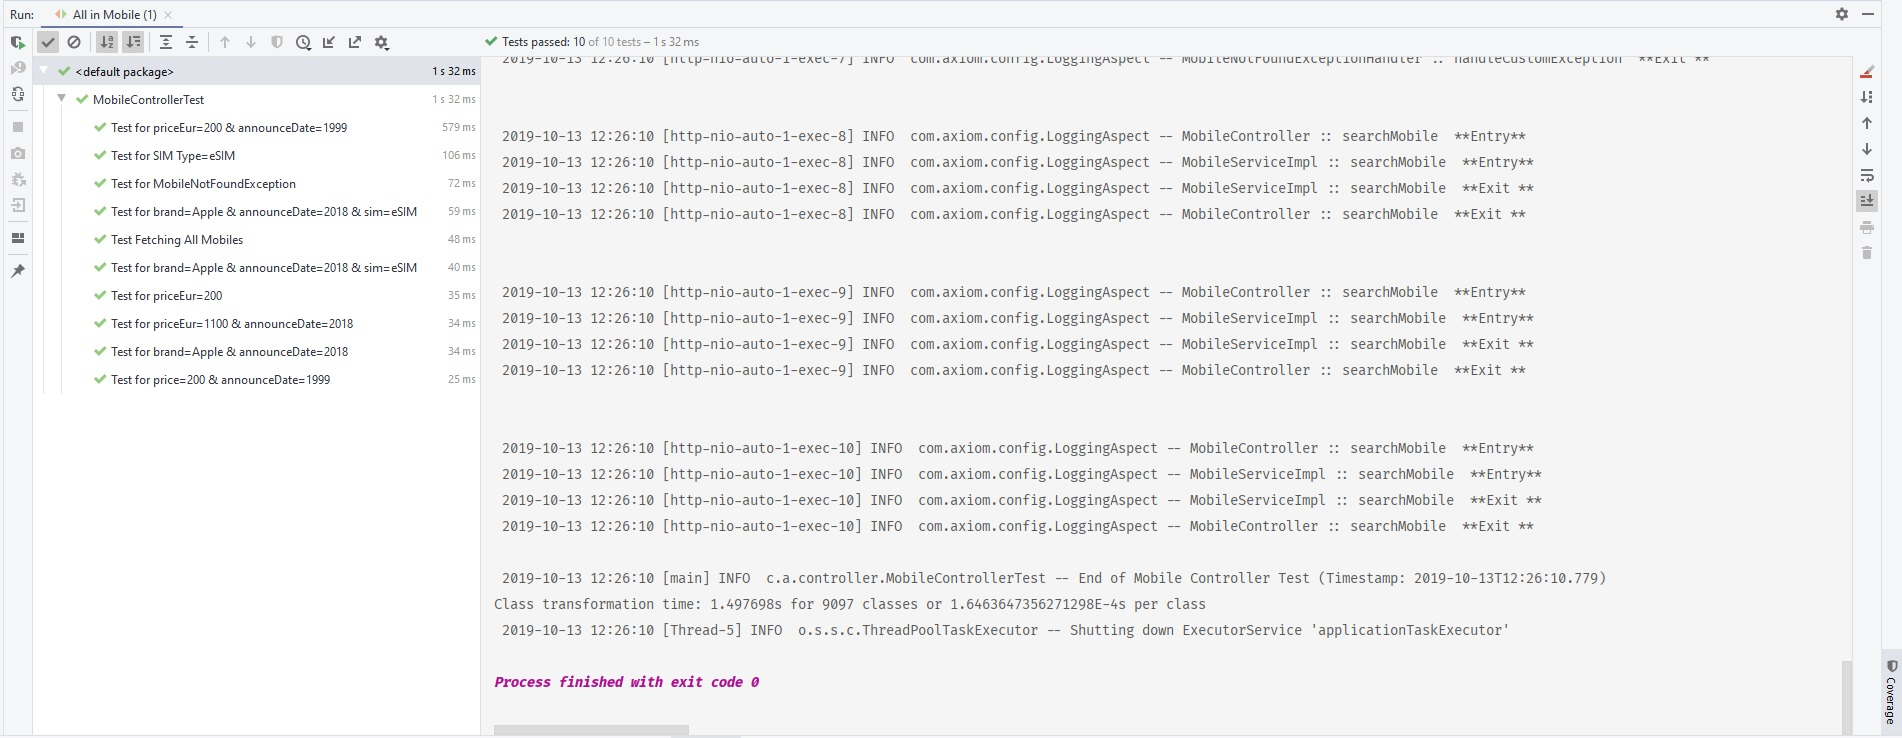
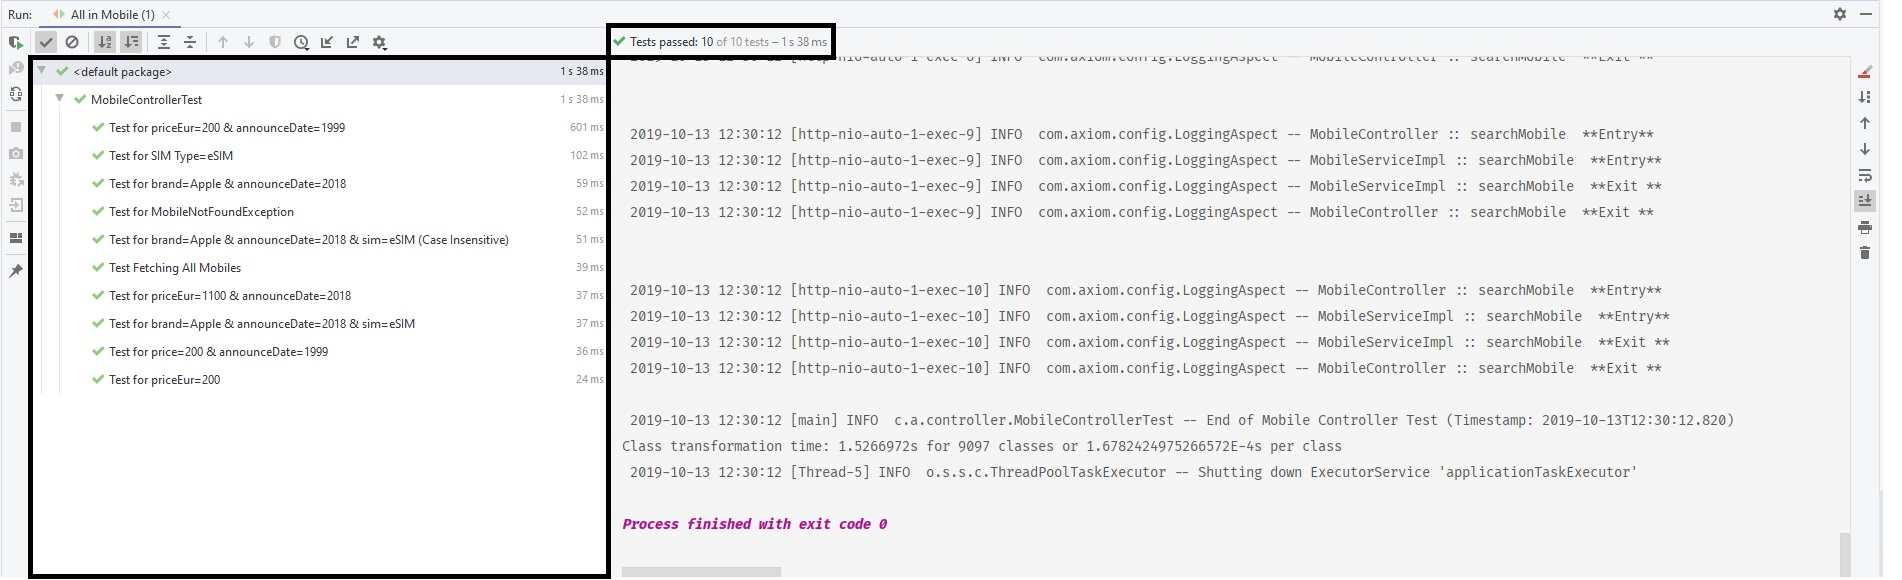
MOHAMMED : master : upadating junit image : NA

diff --git a/src/test/java/com/axiom/controller/MobileControllerTest.java b/src/test/java/com/axiom/controller/MobileControllerTest.java
@@ -148,7 +148,7 @@ public class MobileControllerTest {
     }
 
     @Test
-    @DisplayName("Test for brand=Apple & announceDate=2018 & sim=eSIM")
+    @DisplayName("Test for brand=Apple & announceDate=2018 & sim=eSIM (Case Insensitive)")
     public void searchMobile_Brand_Apple_And_AnnounceDate_2018_And_Sim_ESIM_CASEINSENSITIVE() throws Exception {
         UriComponentsBuilder builder = UriComponentsBuilder.fromHttpUrl(Utility.createURI(port))
                 .queryParam(ApiConstants.BRAND_KEY, "Apple").queryParam("announcedate", "2018")
